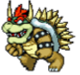
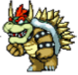
Cut new image for bowserBackStill Update README

diff --git a/src/game_logic/Play.java b/src/game_logic/Play.java
@@ -28,7 +28,7 @@ public class Play extends BasicGameState
     public void init(GameContainer gc, StateBasedGame sbg)throws SlickException
     {
         bowserStillSheet = new SpriteSheet("res/bowserStill.png",76,75);
-        bowserBackStillSheet = new SpriteSheet("res/bowserBackStill.png",80,75);
+        bowserBackStillSheet = new SpriteSheet("res/bowserBackStill.png",77,75);
         bowserSheet = new SpriteSheet("res/Bowser Walks.png",77,75);
         bowserBackSheet = new SpriteSheet("res/Bowser Walks Back.png",79,75);
         
@@ -39,8 +39,6 @@ public class Play extends BasicGameState
         bowserBackAnimation = new Animation(bowserBackSheet,250);
         
         Bowser = bowserAnimation;
-        
-
     }
     public void render(GameContainer gc, StateBasedGame sbg, Graphics g) 
            throws SlickException

diff --git a/src/game_logic/Game.java b/src/game_logic/Game.java
@@ -4,7 +4,7 @@ import org.newdawn.slick.*;
 import org.newdawn.slick.state.*;
 
 public class Game extends StateBasedGame{
-    public static final String gamename = "Super Wario: "
+    public static final String gamename = "Super Bowser: "
                                         + "The Quest to Defend the Castle";
     public static final int menu = 0;
     public static final int play = 1;

diff --git a/README.md b/README.md
@@ -1,8 +1,8 @@
-# project01_team02
+# project02_team02
 Project 02 repository for team 02
 
 _Super Bowser_: A single player action-adventure game
 
-Project still in planning/design phase.
-
 Please see "Team 2 Project 2 Proposal" for more info.
+
+Project has begun implementation of first few logic classes and menu.
